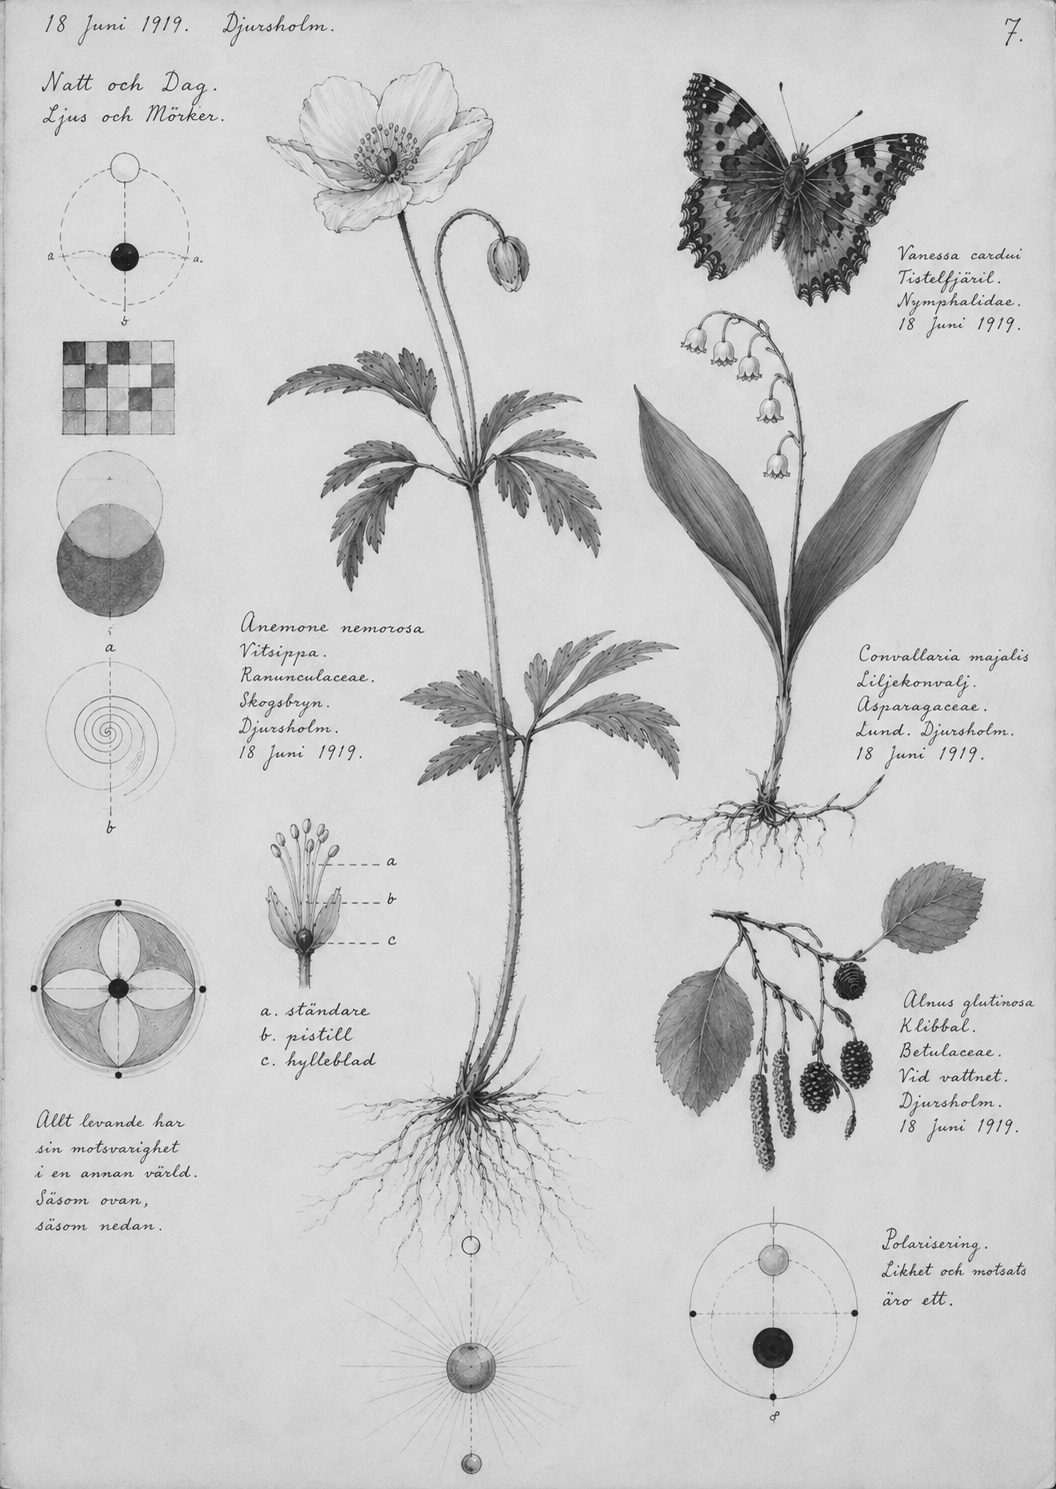
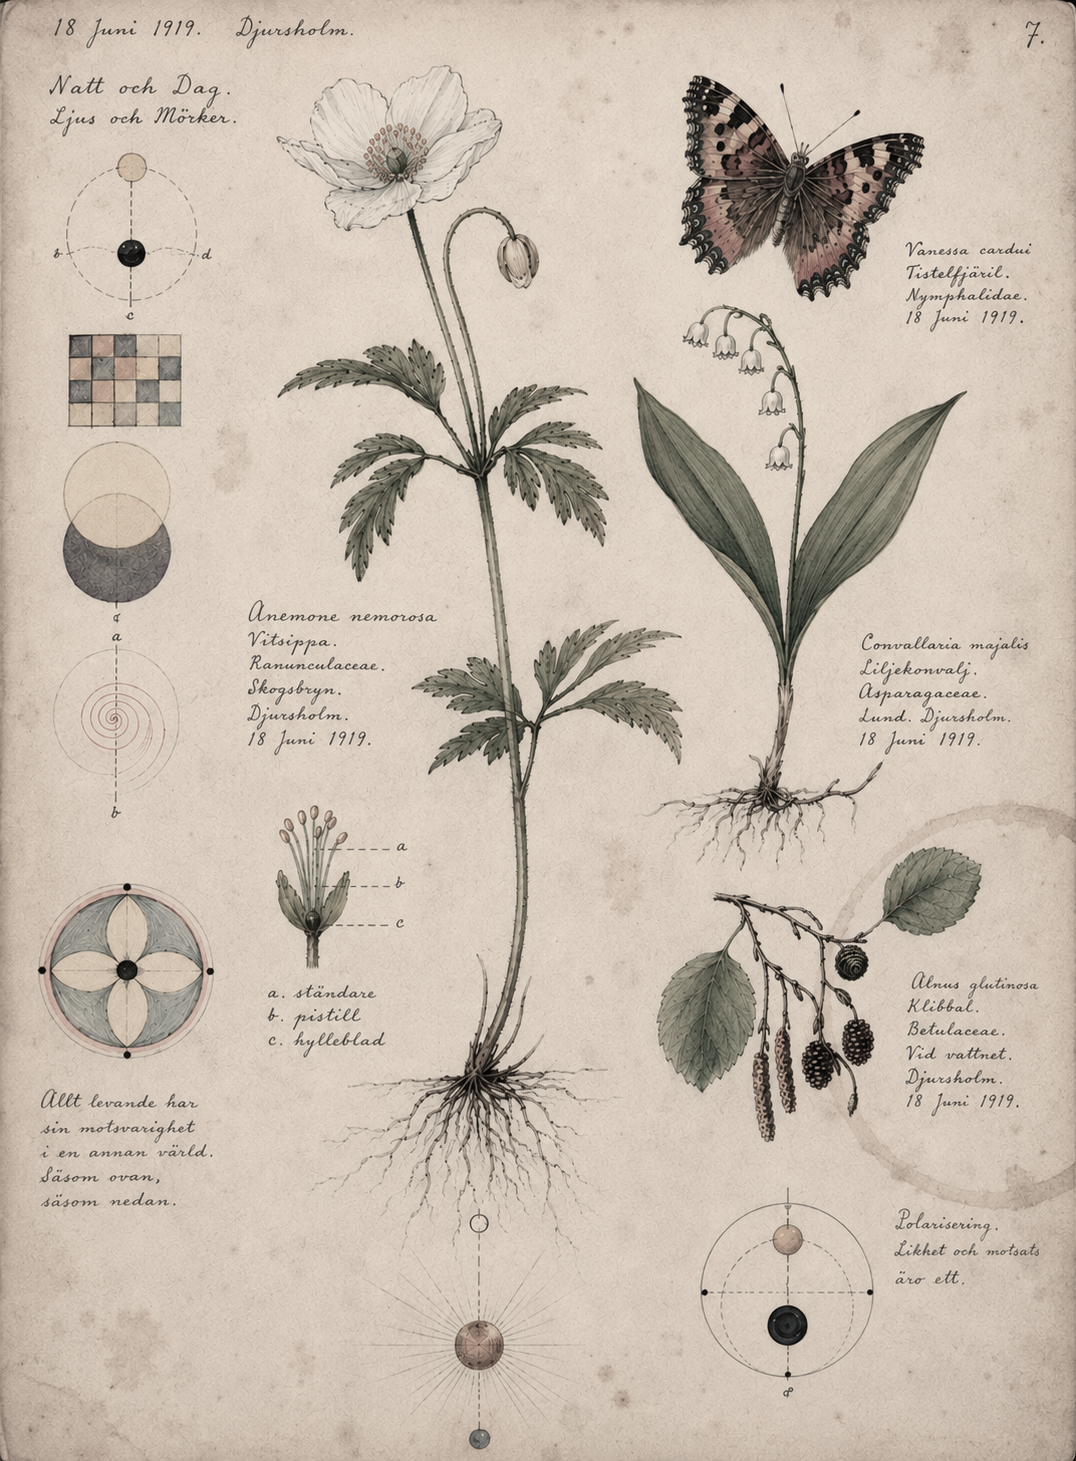
Refresh home hero with new illustration and postcard frame
- New hero artwork (refined botanical illustration with bolder color palette)
- Hero now sits inside a white postcard frame with subtle box-shadow,
  matching the masonry grid aesthetic on the writing page
- Switched object-fit from contain to cover (postcard provides the framing
  padding instead of the image itself)

diff --git a/index.html b/index.html
@@ -23,18 +23,30 @@ nav a:hover{opacity:.5;}
 /* Hero layout */
 .page-hero{display:flex;min-height:100vh;}
 
-/* Left side — hero image with blossom animation */
+/* Left side — hero image with blossom animation, framed as a postcard */
 .left-hero{
   width:50%;position:fixed;top:0;left:0;bottom:0;
   background:#ece8e2;
   overflow:hidden;
+  display:flex;align-items:center;justify-content:center;
+  padding:48px 40px;
+}
+.left-hero .postcard-frame{
+  position:relative;
+  background:#fff;
+  padding:14px;
+  box-shadow:0 4px 20px rgba(0,0,0,0.08), 0 2px 6px rgba(0,0,0,0.05);
+  height:100%;
+  max-height:calc(100vh - 96px);
+  aspect-ratio: 730 / 1057;
+  max-width:100%;
 }
 .left-hero .img-stack{
   position:relative;width:100%;height:100%;
+  overflow:hidden;
 }
 .left-hero .img-stack img{
-  position:absolute;top:0;left:0;width:100%;height:100%;object-fit:contain;
-  padding:24px 24px 48px;
+  position:absolute;top:0;left:0;width:100%;height:100%;object-fit:cover;
 }
 .left-hero .img-bw{z-index:1;}
 .left-hero .img-color{z-index:2;opacity:0;animation:blossom 12s ease-in-out infinite;}
@@ -101,9 +113,11 @@ nav a:hover{opacity:.5;}
 
 <div class="page-hero">
   <div class="left-hero">
-    <div class="img-stack">
-      <img class="img-bw" src="hero-bw.png.png" alt="Botanical illustrations — ink drawing">
-      <img class="img-color" src="hero-color.png.png" alt="Botanical illustrations — watercolor">
+    <div class="postcard-frame">
+      <div class="img-stack">
+        <img class="img-bw" src="hero-bw.png.png" alt="Botanical illustrations — ink drawing">
+        <img class="img-color" src="hero-color.png.png" alt="Botanical illustrations — watercolor">
+      </div>
     </div>
   </div>
 
